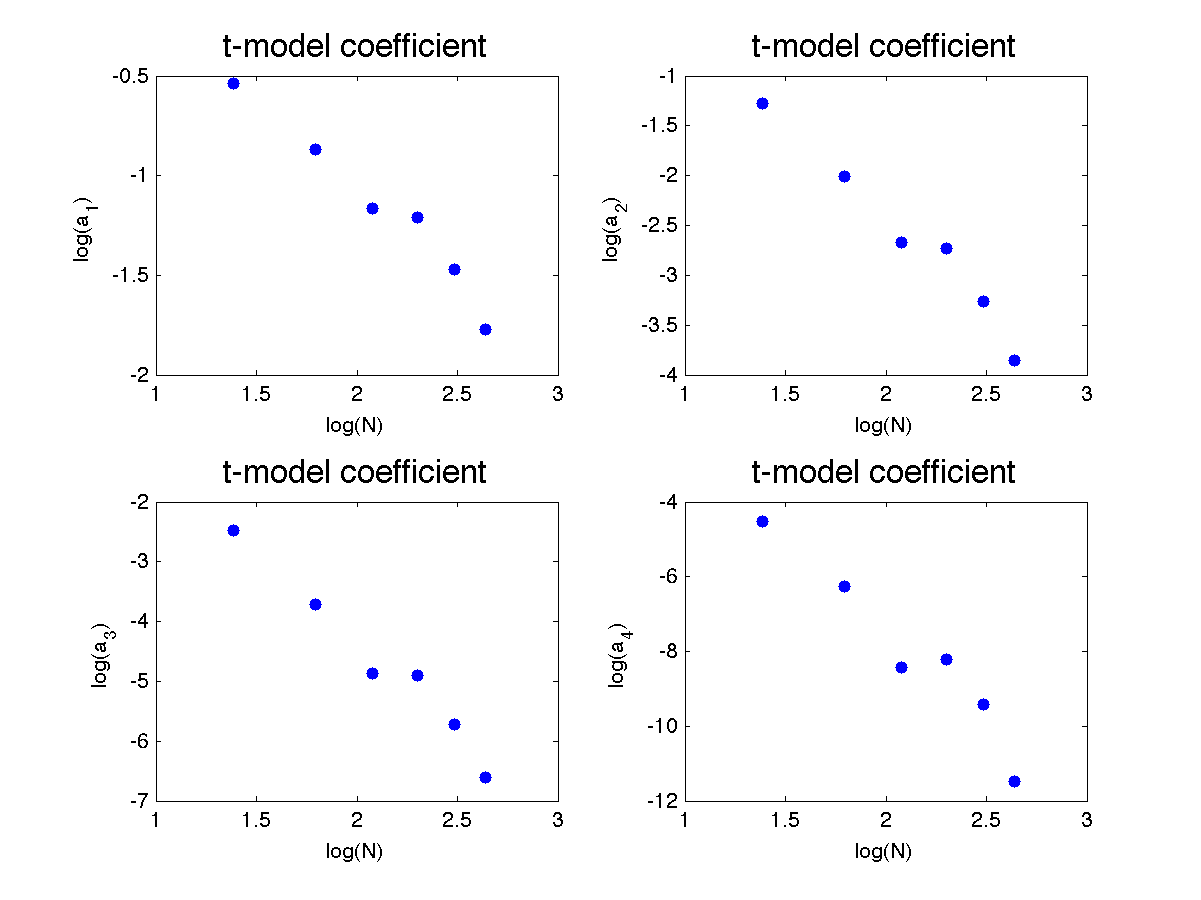
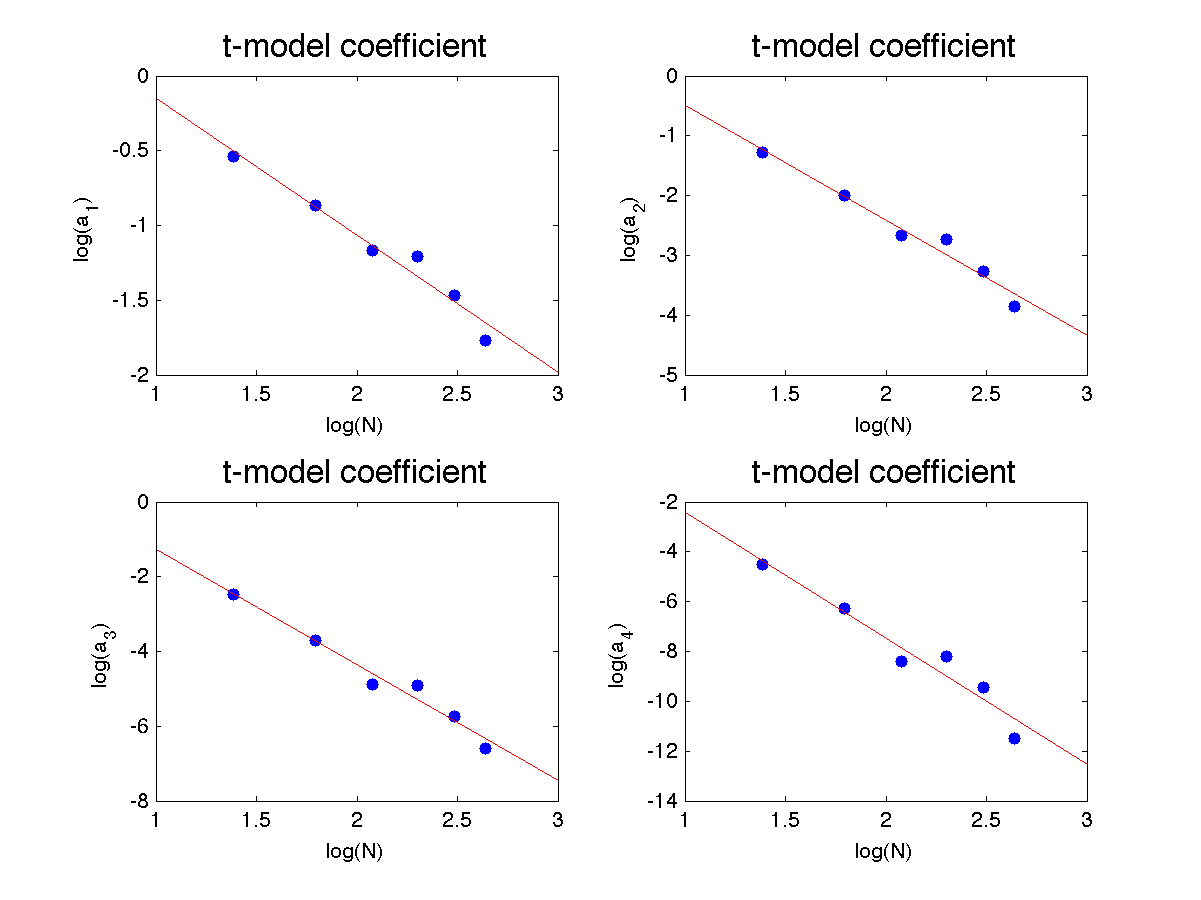
fixed typo in coefficient algorithm

diff --git a/Euler/analysis/renormalize.m b/Euler/analysis/renormalize.m
@@ -269,14 +269,14 @@ end
 
 scaling_laws = zeros(4,2);
 for i = 1:4
-    scaling_laws(i,:) = polyfit(log(N_list),log(coeff_array(i,2:end)),1);
+    scaling_laws(i,:) = polyfit(log(N_list),log(coeff_array(i,:)),1);
 end
 
 if print
     
     figure
     subplot(2,2,1)
-    plot(log(N_list),log(coeff_array(1,2:end)),'.','markersize',20)
+    plot(log(N_list),log(coeff_array(1,:)),'.','markersize',20)
     hold on
     plot([1,3],polyval(scaling_laws(1,:),[1,3]),'r')
     title('t-model coefficient','fontsize',16)
@@ -284,7 +284,7 @@ if print
     ylabel('log(a_1)')
     
     subplot(2,2,2)
-    plot(log(N_list),log(coeff_array(2,2:end)),'.','markersize',20)
+    plot(log(N_list),log(coeff_array(2,:)),'.','markersize',20)
     hold on
     plot([1,3],polyval(scaling_laws(2,:),[1,3]),'r')
     title('t-model coefficient','fontsize',16)
@@ -292,7 +292,7 @@ if print
     ylabel('log(a_2)')
     
     subplot(2,2,3)
-    plot(log(N_list),log(coeff_array(3,2:end)),'.','markersize',20)
+    plot(log(N_list),log(coeff_array(3,:)),'.','markersize',20)
     hold on
     plot([1,3],polyval(scaling_laws(3,:),[1,3]),'r')
     title('t-model coefficient','fontsize',16)
@@ -300,7 +300,7 @@ if print
     ylabel('log(a_3)')
     
     subplot(2,2,4)
-    plot(log(N_list),log(coeff_array(4,2:end)),'.','markersize',20)
+    plot(log(N_list),log(coeff_array(4,:)),'.','markersize',20)
     hold on
     plot([1,3],polyval(scaling_laws(4,:),[1,3]),'r')
     title('t-model coefficient','fontsize',16)

diff --git a/Euler/simulations/testing_renormalization_Mar_1/analyze_data.m b/Euler/simulations/testing_renormalization_Mar_1/analyze_data.m
@@ -14,6 +14,6 @@ u_array = u(:,:,:,:,:,viable_snapshots);
 t_array = t(viable_snapshots);
 
 s = size(u);
-N_list = 2:2:s(1)-1;
+N_list = 4:2:s(1)-2;
 
 [coeff_array,scaling_laws] = renormalize(u_array,N_list,t_array,time,print);
